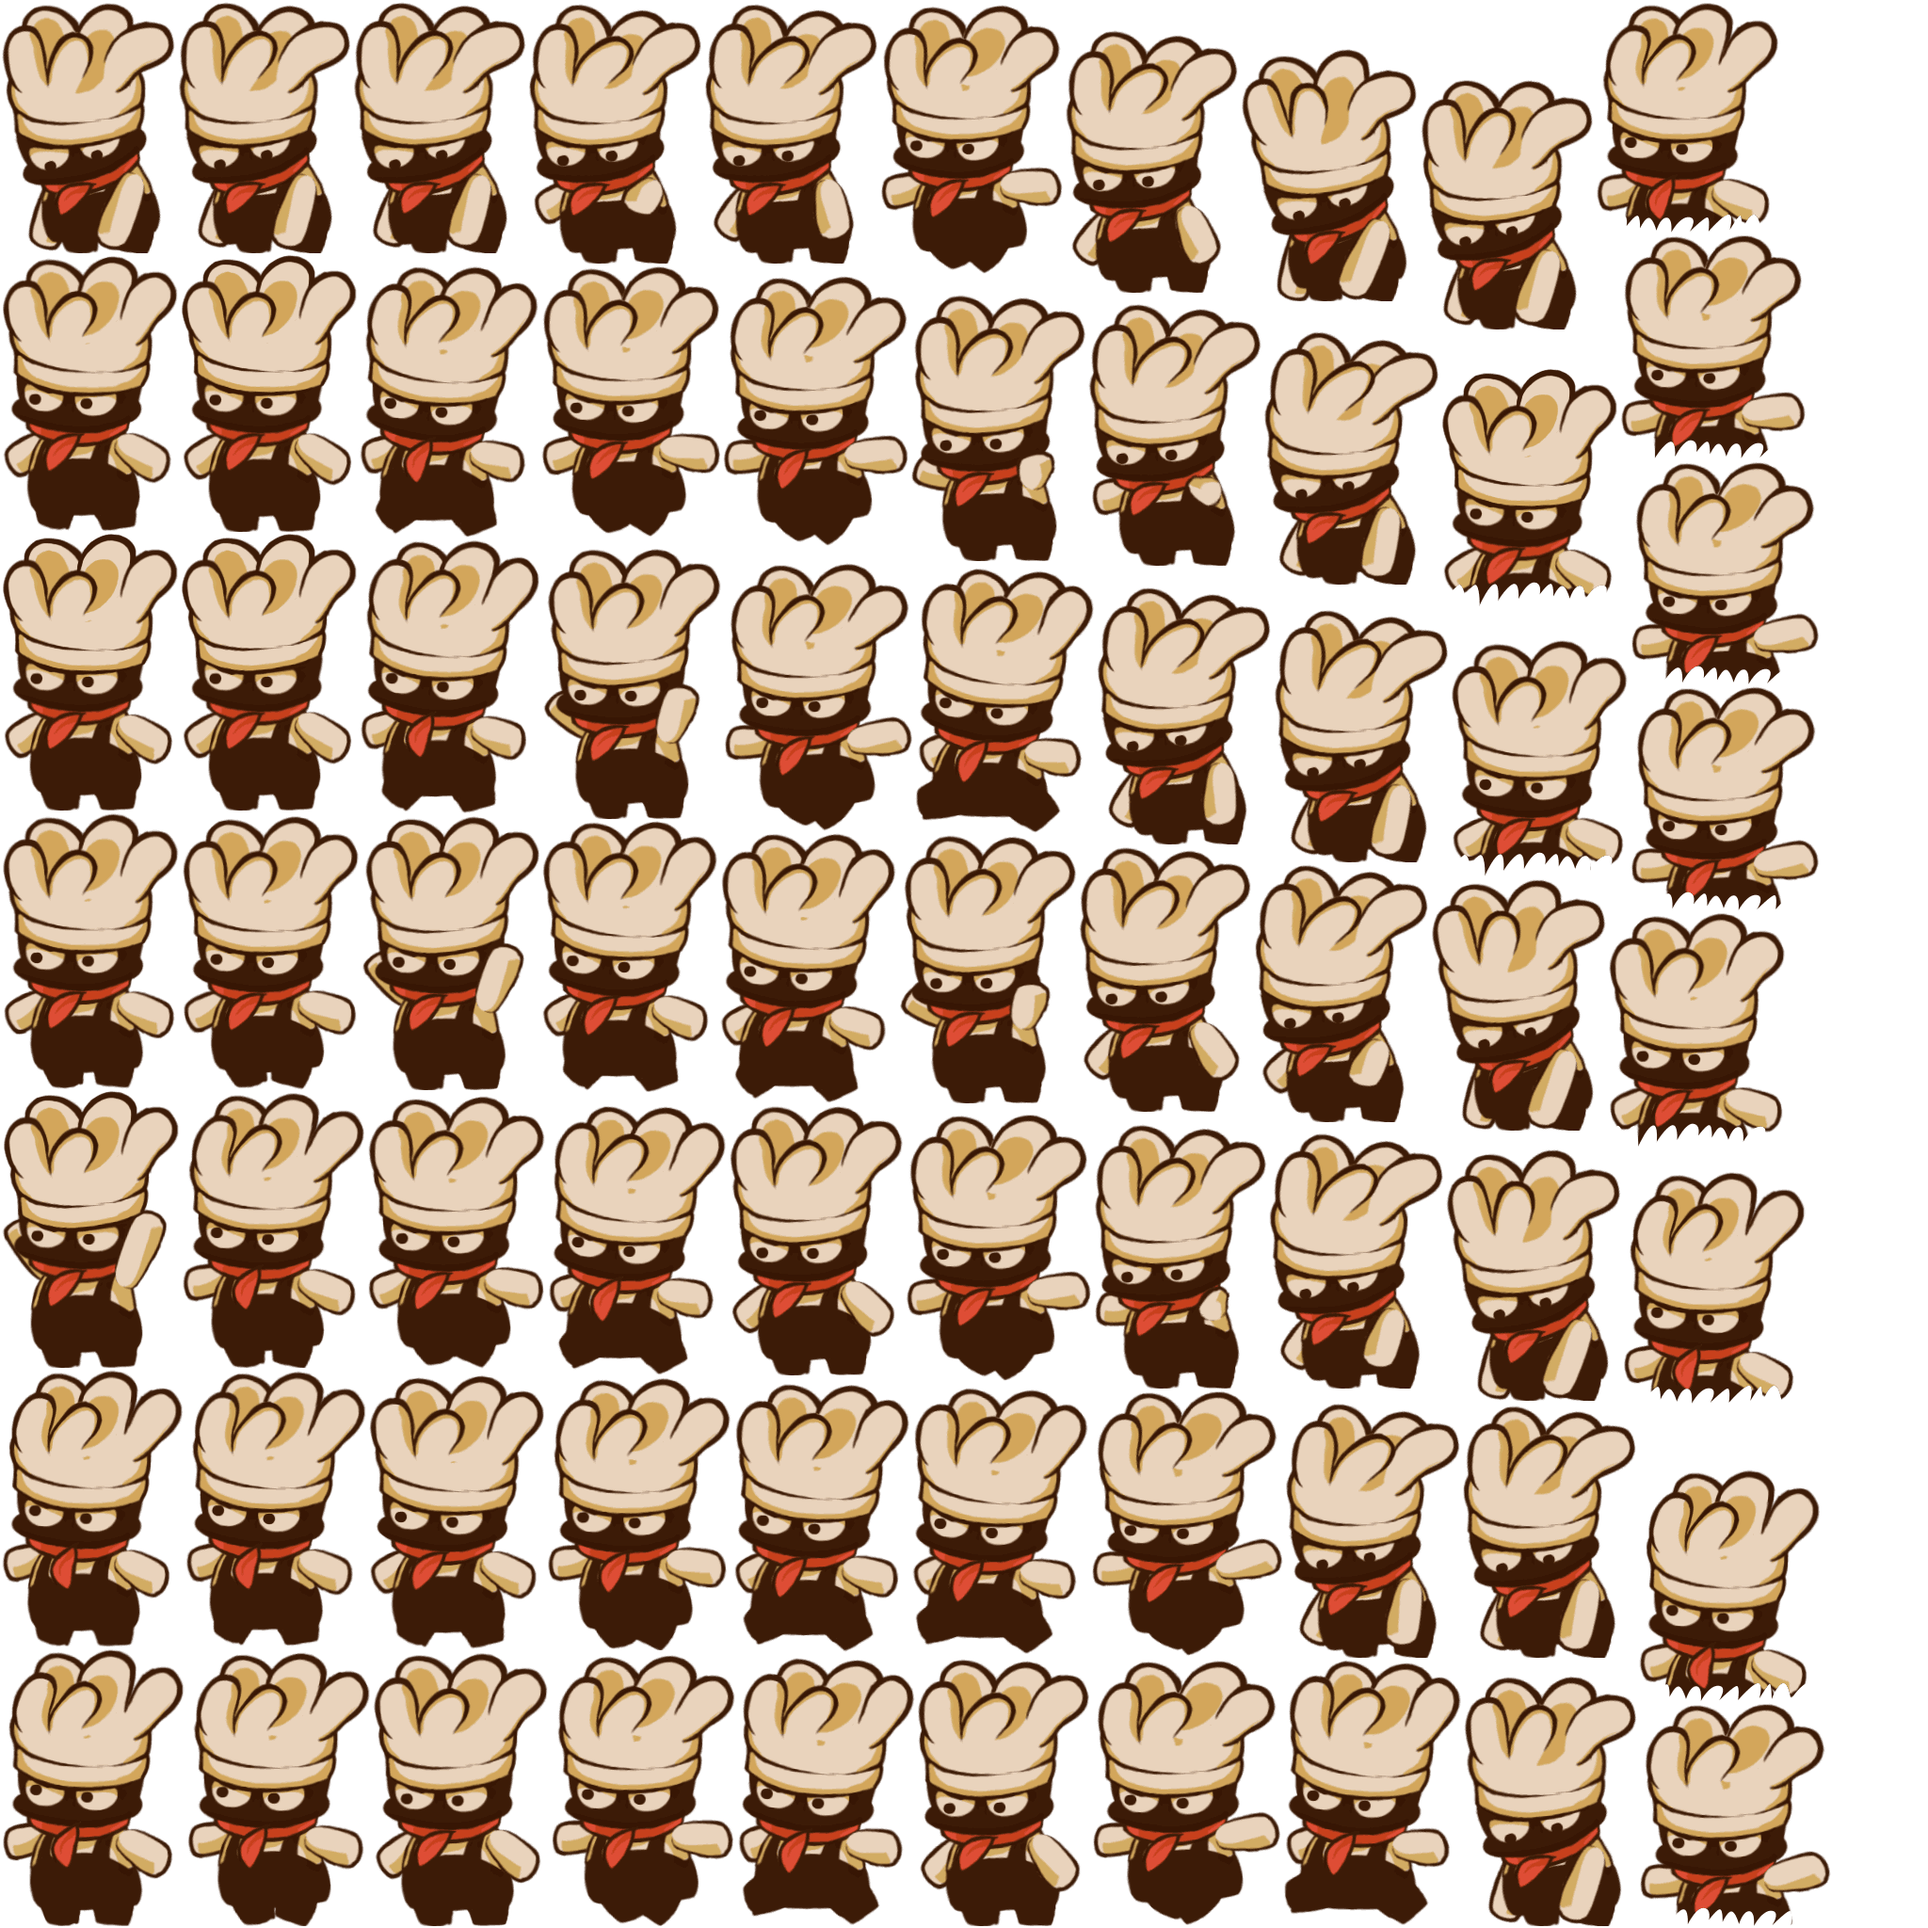
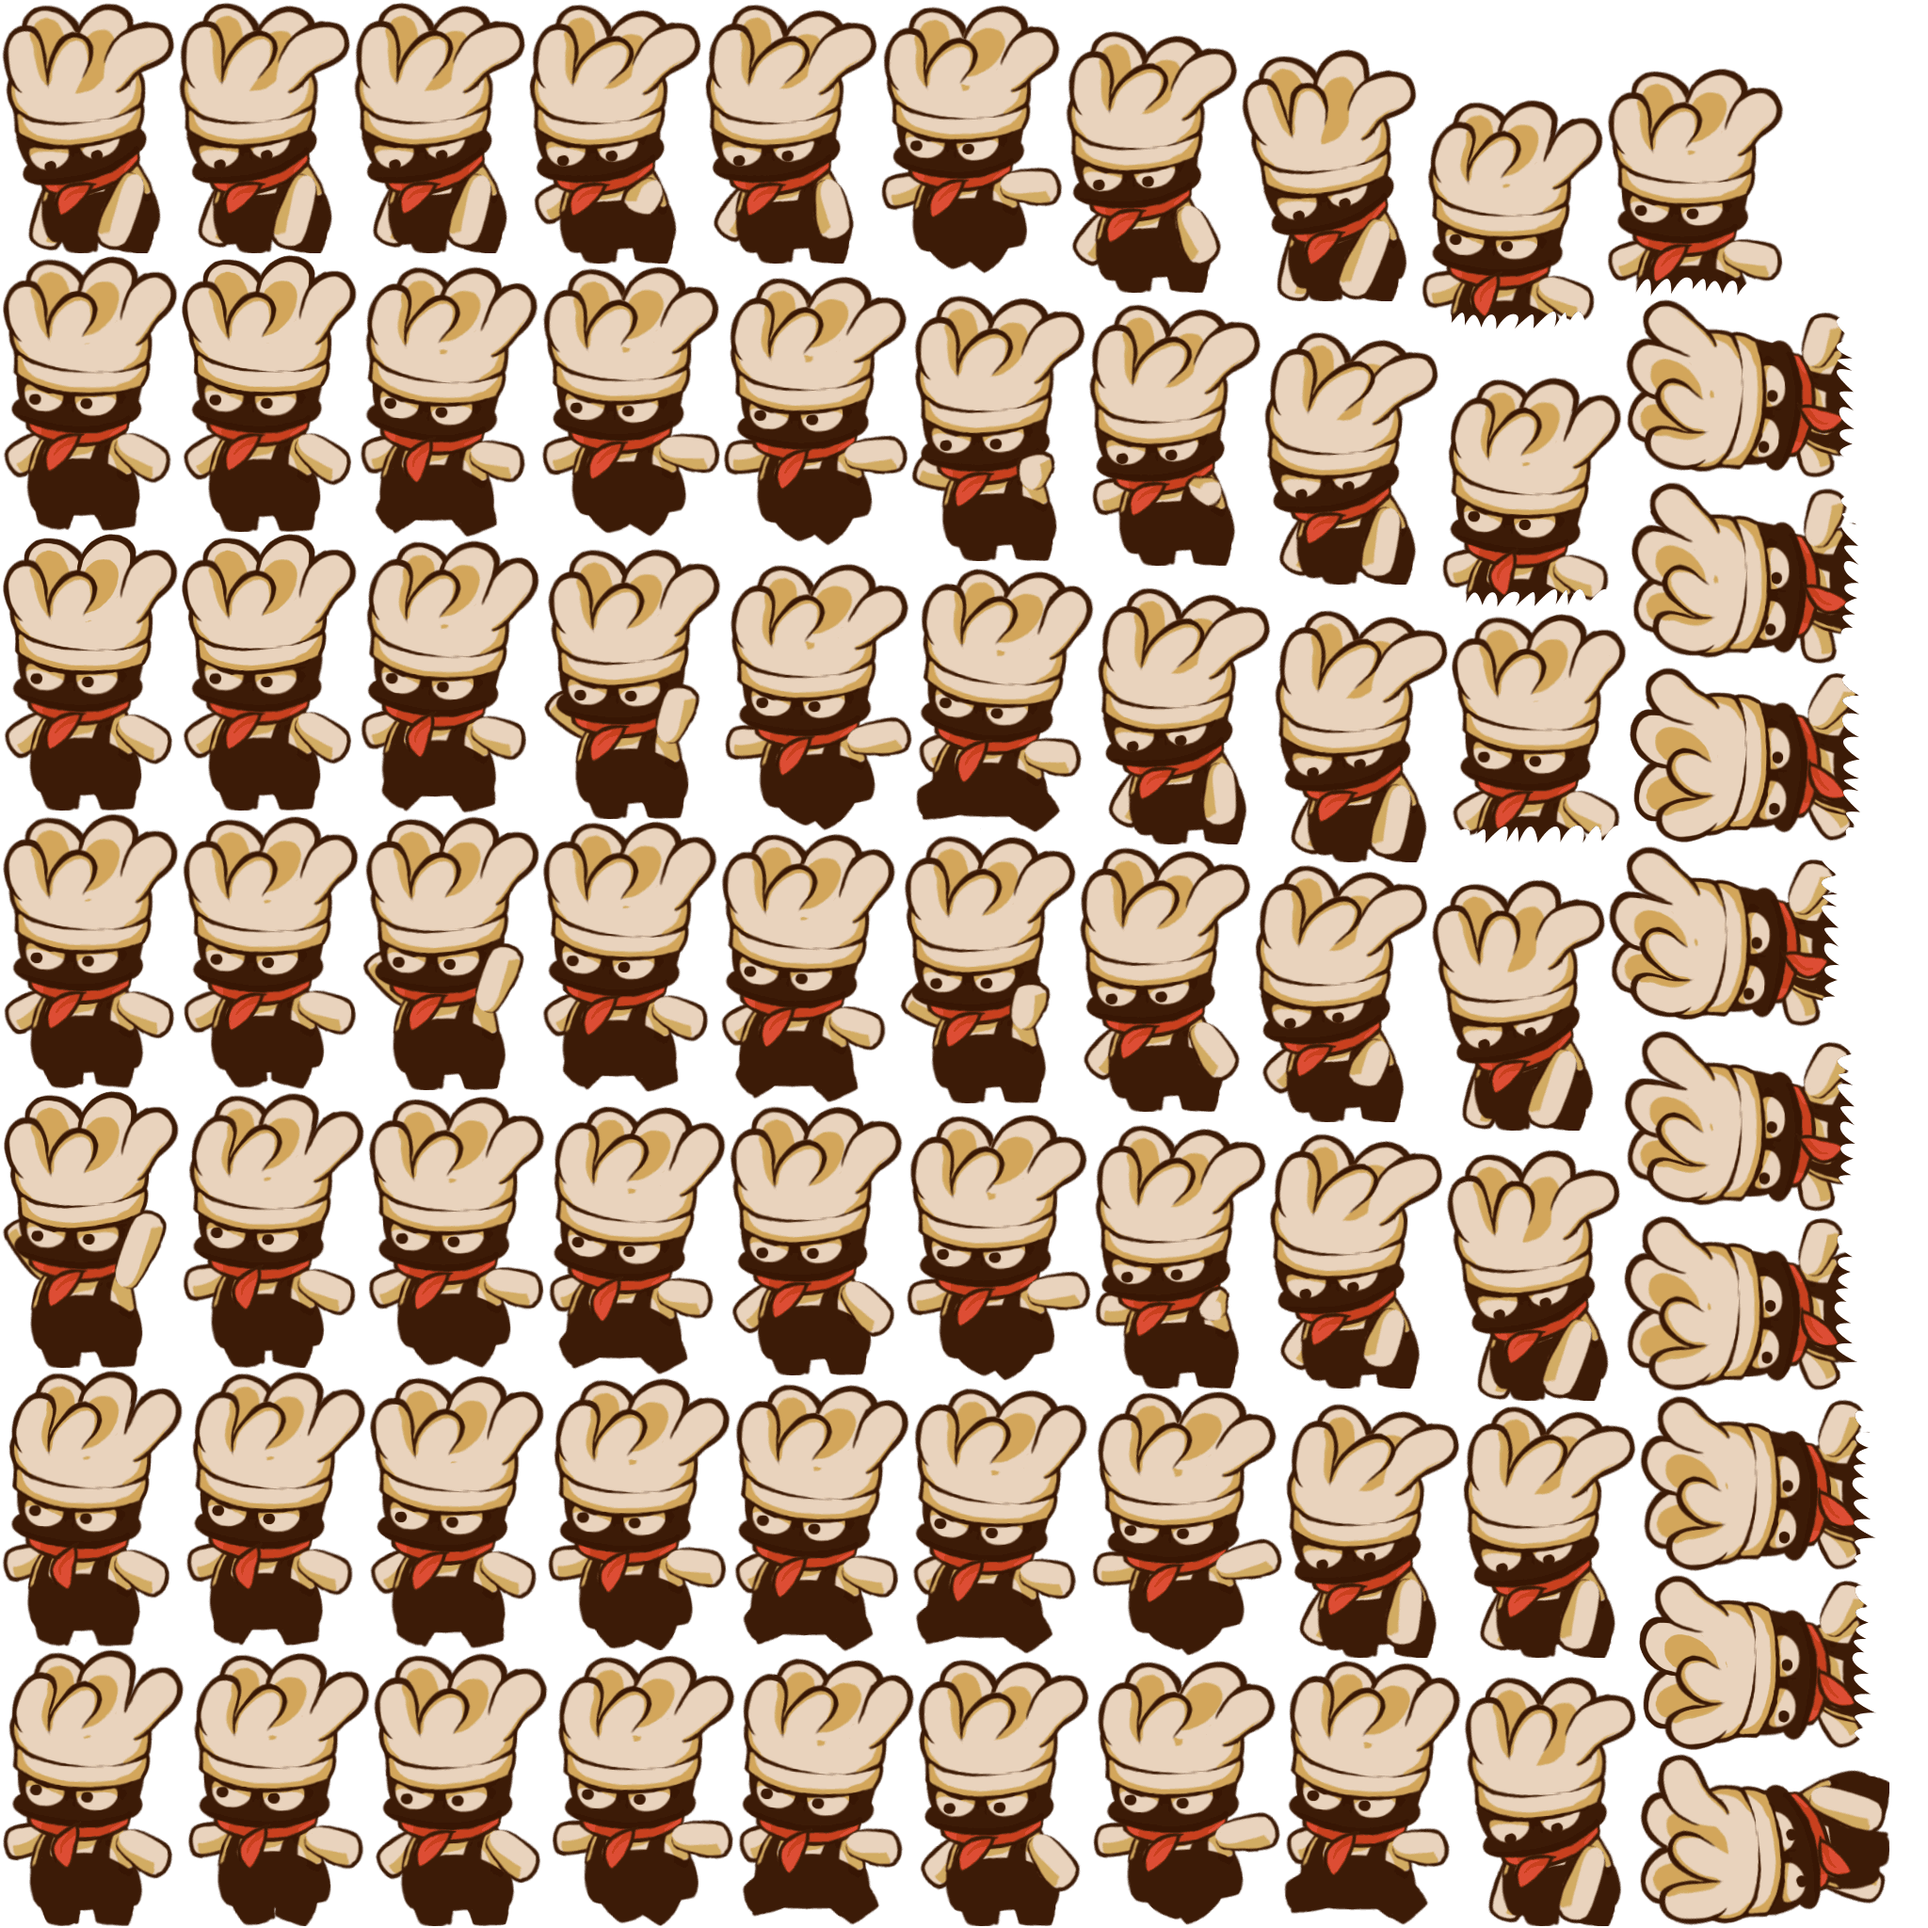
fix rotate atlas region rendering

Changed region(s): [[0.7188, 0.0, 1.0, 1.0]]

diff --git a/src/lib/PolygonBatcher.ts b/src/lib/PolygonBatcher.ts
@@ -203,17 +203,18 @@ export class PolygonBatch implements Disposable {
     rotation = 0,
     scaleX = 1,
     scaleY = 1,
-    u1 = 0,
-    v1 = 1,
-    u2 = 1,
-    v2 = 0
+    ou1 = 0,
+    ov1 = 1,
+    ou2 = 1,
+    ov2 = 0,
+    rotate = false
   ) {
     const color = this.color;
 
     if (this.yDown) {
-      const tmpV1 = v1;
-      v1 = v2;
-      v2 = tmpV1;
+      const tmpV1 = ov1;
+      ov1 = ov2;
+      ov2 = tmpV1;
     }
 
     width = width === 0 ? width : width || texture.width;
@@ -282,6 +283,26 @@ export class PolygonBatch implements Disposable {
     y3 += y + originY;
     y4 += y + originY;
 
+    let u1 = ou1;
+    let v1 = ov1;
+    let u2 = ou2;
+    let v2 = ov2;
+    let u3 = u2;
+    let v3 = v1;
+    let u4 = u1;
+    let v4 = v2;
+
+    if (rotate) {
+      u1 = ou1;
+      v1 = ov2;
+      u2 = ou2;
+      v2 = ov1;
+      u3 = ou1;
+      v3 = ov1;
+      u4 = ou2;
+      v4 = ov2;
+    }
+
     var i = 0;
     quad[i++] = x1;
     quad[i++] = y1;
@@ -303,8 +324,8 @@ export class PolygonBatch implements Disposable {
     quad[i++] = color.g;
     quad[i++] = color.b;
     quad[i++] = color.a;
-    quad[i++] = u2;
-    quad[i++] = v1;
+    quad[i++] = u3;
+    quad[i++] = v3;
     if (this.twoColorTint) {
       quad[i++] = 0;
       quad[i++] = 0;
@@ -331,8 +352,8 @@ export class PolygonBatch implements Disposable {
     quad[i++] = color.g;
     quad[i++] = color.b;
     quad[i++] = color.a;
-    quad[i++] = u1;
-    quad[i++] = v2;
+    quad[i++] = u4;
+    quad[i++] = v4;
     if (this.twoColorTint) {
       quad[i++] = 0;
       quad[i++] = 0;

diff --git a/src/lib/TextureRegion.ts b/src/lib/TextureRegion.ts
@@ -43,6 +43,7 @@ export class TextureRegion {
   v = 0;
   u2 = 0;
   v2 = 0;
+  rotate = false;
 
   constructor(
     tex: Texture,
@@ -75,17 +76,13 @@ export class TextureRegion {
     this.offsetX = 0;
     this.offsetY = 0;
 
-    if (rotate) {
-      this.u = u2;
-      this.v = v;
-      this.u2 = u;
-      this.v2 = v2;
-    } else {
-      this.u = u;
-      this.v = v;
-      this.u2 = u2;
-      this.v2 = v2;
-    }
+    this.u = u;
+    this.v = v;
+    this.u2 = u2;
+    this.v2 = v2;
+
+    this.rotate = rotate;
+
     for (let key in extraData) {
       this[key] = extraData[key];
     }
@@ -132,7 +129,8 @@ export class TextureRegion {
       this.u,
       this.v,
       this.u2,
-      this.v2
+      this.v2,
+      this.rotate
     );
   }
 }

diff --git a/src/index.ts b/src/index.ts
@@ -32,6 +32,11 @@ const createMainScreen = async (viewport: Viewport): Promise<Screen> => {
     [1 / 5, 1 / 5, 1 / 5, 1 / 5, 1 / 5, 1 / 5, 1 / 30]
   );
 
+  const kitFullHalf = new Animation(
+    kitGardenAtlas.findRegions("char_run_half"),
+    [1 / 30]
+  );
+
   const batch = new PolygonBatch(gl);
 
   batch.setYDown(true);
@@ -85,6 +90,10 @@ const createMainScreen = async (viewport: Viewport): Promise<Screen> => {
       kitFullRun
         .getKeyFrame(stateTime, PlayMode.LOOP_PINGPONG)
         .draw(batch, 300, 100, 100, 100);
+
+      kitFullHalf
+        .getKeyFrame(stateTime, PlayMode.LOOP)
+        .draw(batch, 400, 100, 100, 100);
       batch.end();
     },
     dispose() {
